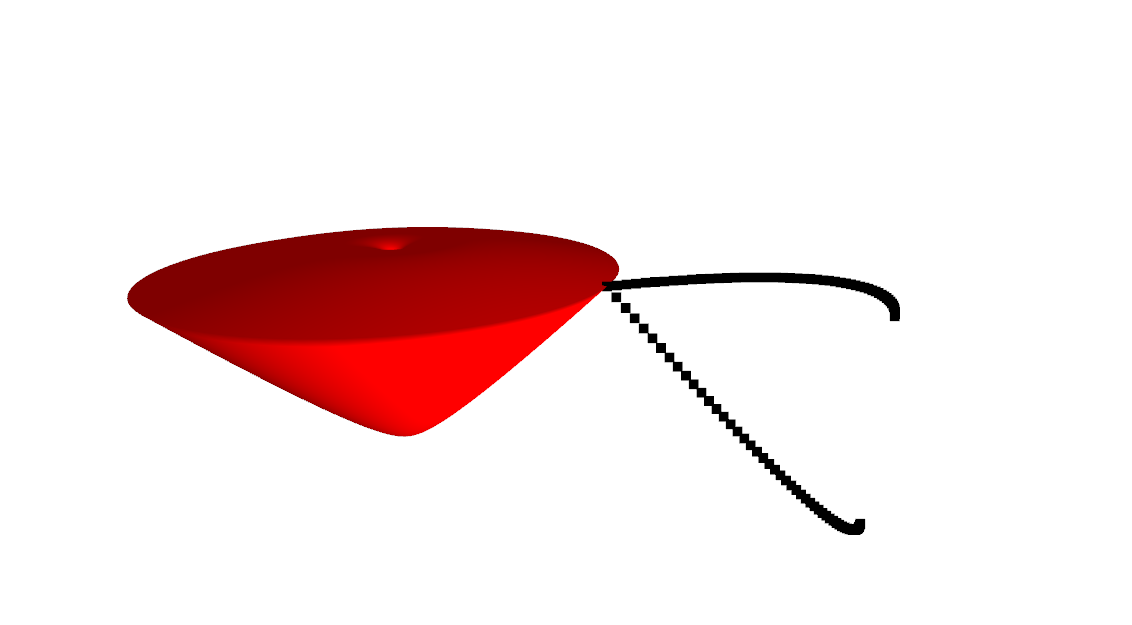
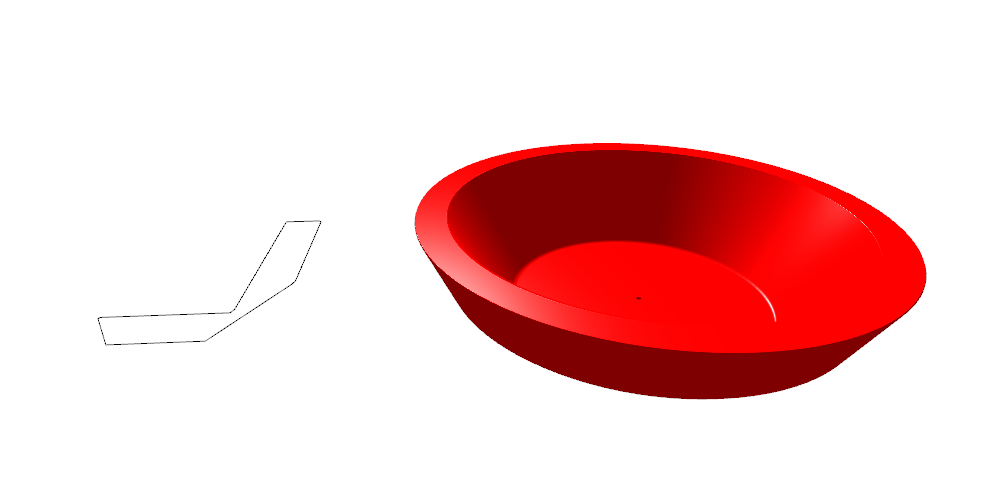
Better example of Bezier Curves

Changed region(s): [[0.0929, 0.2789, 0.9291, 0.8678], [0.0929, 0.6508, 0.2168, 0.7128]]

diff --git a/sample/src/sample.cpp b/sample/src/sample.cpp
@@ -41,7 +41,7 @@ void Sample::initialize() {
         0.1f
     ));
 
-    glm::vec3 lightPos(1.0f, 1.0f, 0.0f);
+    glm::vec3 lightPos(1.0f, 5.0f, 0.0f);
     m_lightPoint = std::make_unique<gl::geometry::Point>(std::vector<float>({ lightPos.x, lightPos.y, lightPos.z }));
     m_lighting.addPointLight(std::make_shared<gl::illumination::PointLight>(
         lightPos,
@@ -83,12 +83,14 @@ void Sample::initialize() {
 
     m_sceneObjects.insert(std::end(m_sceneObjects), { m_parentObj, m_child1Obj, m_child2Obj, m_grandchild1Obj });
 
-    gl::math::Bezier curve(3, std::vector<glm::vec3>({
-        glm::vec3(0.0f, 1.0f, 0.0f),
-        glm::vec3(0.0f, 1.5f, 0.0f),
-        glm::vec3(2.5f, 1.0f, 0.0f),
-        glm::vec3(0.0f, -1.5f, 0.0f),
-        glm::vec3(0.0f, -1.0f, 0.0f) }));
+    gl::math::Bezier curve(2, std::vector<glm::vec3>({
+        glm::vec3(0.0f, 0.0f, 0.0f),
+        glm::vec3(0.0f, 0.5f, 0.0f),
+        glm::vec3(2.0f, 0.5f, 0.0f),
+        glm::vec3(3.0f, 2.0f, 0.0f),
+        glm::vec3(3.5f, 2.0f, 0.0f),
+        glm::vec3(3.0f, 1.0f, 0.0f),
+        glm::vec3(1.5f, 0.0f, 0.0f) }));
     std::vector<float> verticesCurve { gl::math::generateVertices(
         curve.getX(), curve.getY(), std::make_pair<float, float>(0.0f, curve.getT()), false
     ) };
@@ -106,8 +108,8 @@ void Sample::initialize() {
 void Sample::render() {
     m_scene.drawScene();
     m_lightPoint->draw();
-    m_bezierCurve->draw(glm::translate(glm::mat4(1.0f), glm::vec3(5.0f, 0.0f, 5.0f)));
-    m_bezierMesh->draw(glm::translate(glm::mat4(1.0f), glm::vec3(10.0f, 0.0f, 5.0f)));
+    m_bezierCurve->draw(glm::scale(glm::translate(glm::mat4(1.0f), glm::vec3(0.0f, 0.0f, 5.0f)), glm::vec3(0.3f)));
+    m_bezierMesh->draw(glm::scale(glm::translate(glm::mat4(1.0f), glm::vec3(2.5f, 0.0f, 5.0f)), glm::vec3(0.3f)));
 }
 
 void Sample::update(float dt) {

diff --git a/graphics-library/src/geometry/curve.cpp b/graphics-library/src/geometry/curve.cpp
@@ -22,7 +22,7 @@ namespace gl::geometry {
         m_vertexBuffer.useBuffer();
         glVertexAttribPointer(POSITION_LOCATION, 3, GL_FLOAT, GL_FALSE, 0, nullptr);
 
-        glDrawArrays(GL_POINTS, 0, static_cast<GLsizei>(m_vertexBuffer.size() / 3.0f));
+        glDrawArrays(GL_LINES, 0, static_cast<GLsizei>(m_vertexBuffer.size() / 3.0f));
 
         glDisableVertexAttribArray(POSITION_LOCATION);
     }

diff --git a/README.md b/README.md
@@ -20,6 +20,7 @@ Scene Tree:
 ![Scene Tree](screenshots/scene_tree.gif)
 
 Bézier curve and mesh generated based on that curve by rotating about the y axis:
+
 ![Bezier Curve](screenshots/bezier.png)
 
 # Setup
